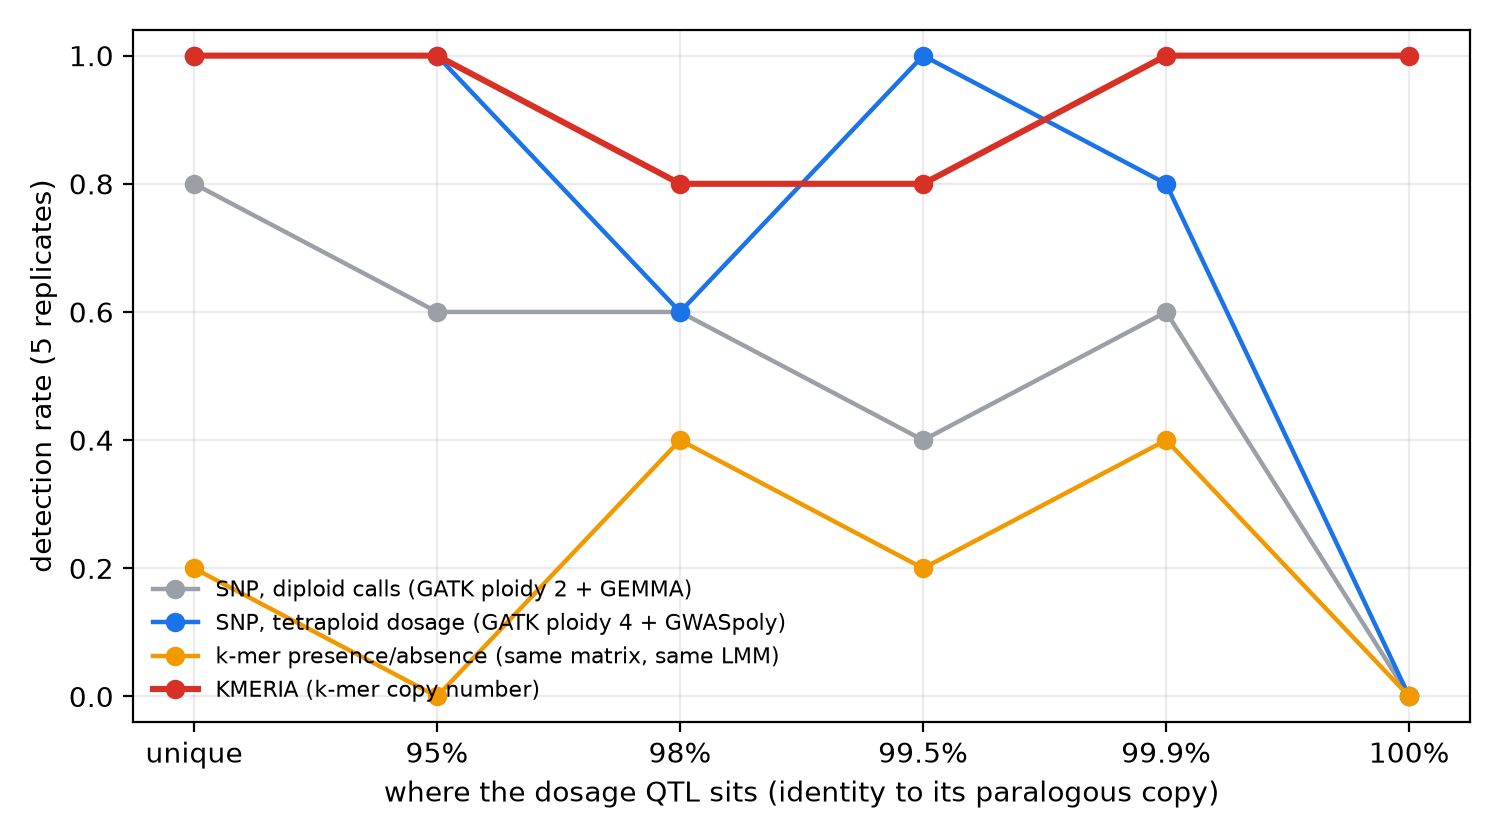
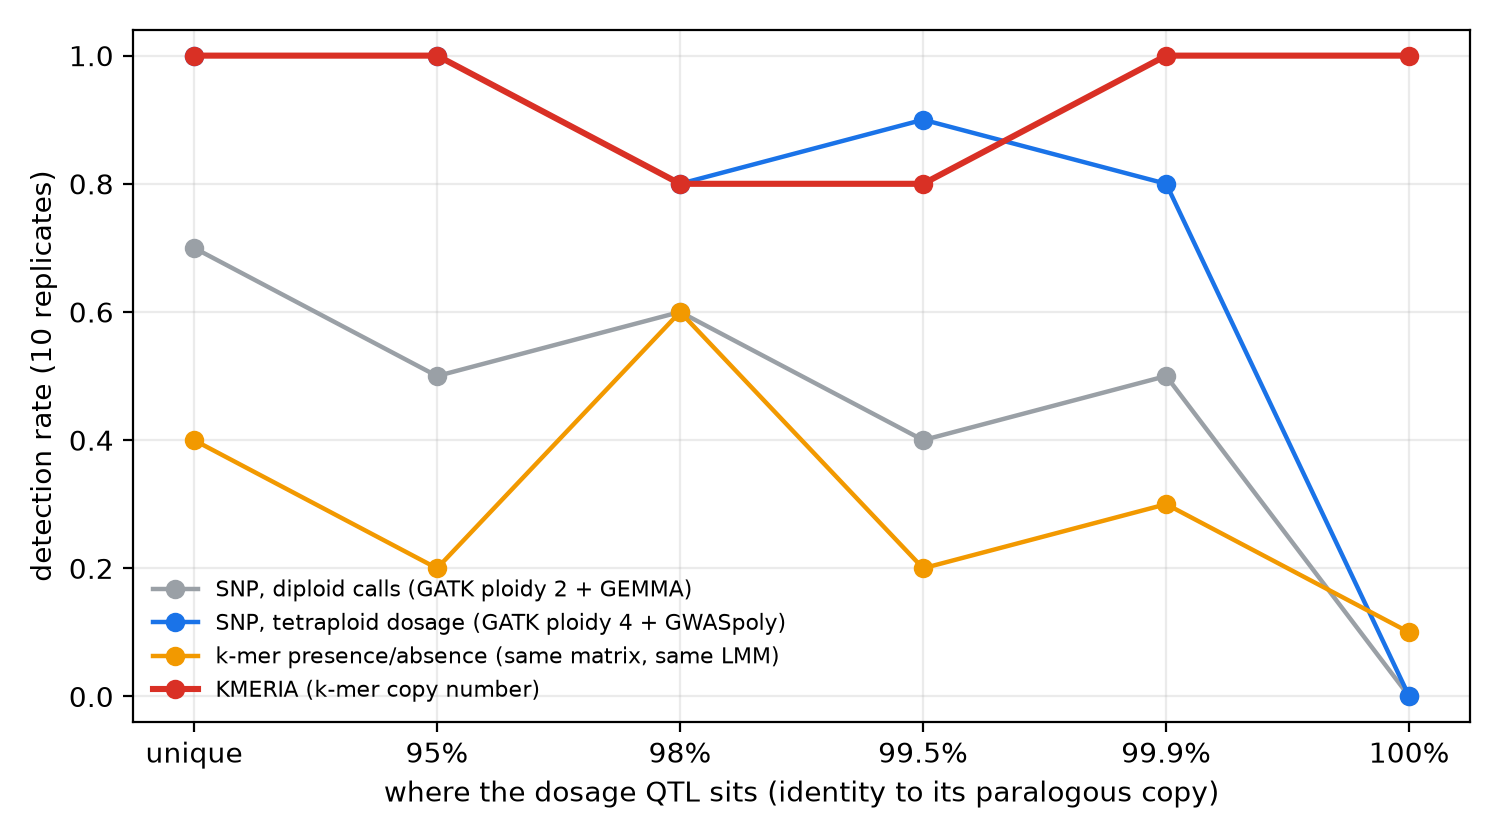
Extend to 10 replicates: updated summary, figures and scorecard
Claude-Session: https://claude.ai/code/session_0118DfELS2Pe4E5szKwBYVLx

diff --git a/README.md b/README.md
@@ -9,7 +9,7 @@ Four routes are run on the same reads and the same phenotypes: diploid SNP calls
 [`PREREGISTRATION.md`](PREREGISTRATION.md) before any replicate ran; `git log -- PREREGISTRATION.md` shows they
 were not edited afterwards (one dated amendment, made after the n = 20 smoke test and before the full runs).
 
-> Simulated data only: 400 autotetraploid individuals, 2.5 Mb genome, 60× short reads, 5 replicates.
+> Simulated data only: 400 autotetraploid individuals, 2.5 Mb genome, 60× short reads, 10 replicates.
 > The numbers here show *mechanisms*, not field-ready power estimates.
 
 ![power vs identity](figures/fig1_power_vs_identity.png)
@@ -23,27 +23,28 @@ far more often than either of them.
 **2. Empirical deviation, part 1.** The prediction holds in direction but not in size. Pooled over the five dosage QTLs
 that a linear reference can still resolve (unique → 99.9 %), the detection rates are:
 
-| encoding | detected (25 trait × replicate) |
+| encoding | detected (50 trait × replicate) |
 |---|---|
 | KMERIA (k-mer copy number) | **92 %** |
-| GWASpoly (GATK ploidy 4 dosage) | **88 %** |
-| SNP, diploid calls | 60 % |
-| k-mer presence/absence | 24 % |
+| GWASpoly (GATK ploidy 4 dosage) | **90 %** |
+| SNP, diploid calls | 54 % |
+| k-mer presence/absence | 34 % |
 
-Presence/absence k-mers lose most of the signal, as predicted. Diploid calls do better than our 35–50 % forecast
-(see the scorecard).
+Presence/absence k-mers lose most of the signal, as predicted. Both lossy encodings do better than our forecast,
+though (see the scorecard).
 
 **3. Empirical deviation, part 2: the patch works, then hits a wall.** The obvious fix inside the alignment
-paradigm is to call genotypes with ploidy 4 and run GWASpoly. It works much better than expected. GATK genotypes at
-the causal site still correlated with true dosage at r = 0.84–0.99 up to **99.9 %** identity, because a 2×150 bp
-read pair spanning ~700 bp almost always covers at least one distinguishing base.
+paradigm is to call genotypes with ploidy 4 and run GWASpoly. It works much better than expected. In 8 of 10
+replicates GATK still genotyped the causal site at **99.9 %** identity, with r = 0.84–0.98 against true dosage. A
+2×150 bp read pair spans ~700 bp, so it almost always covers at least one distinguishing base. GWASpoly missed the
+99.9 % QTL in exactly the 2 replicates where GATK did not call the site.
 
-The wall is the **100 %-identical duplicate**. Reads from the two copies get MAPQ 0, HaplotypeCaller ignores them, and
-the causal SNP was **not called in any of 5 replicates at either ploidy**. Every SNP-based route is blind there (0/5),
-and so is presence/absence (0/5). KMERIA found it **5/5** (median p = 4.4e-9; threshold 5.6e-7). The causal
-alt allele exists on only one copy, so its k-mers are unique in the genome even though the reference coordinates
-around them are not. The SNP panels of [the Manhattan plot](figures/fig4_manhattan_P100_seed1.png) show an empty
-gap at the duplicated segment.
+The wall is the **100 %-identical duplicate**. Reads from the two copies get MAPQ 0, HaplotypeCaller ignores them,
+and the causal SNP was **not called in any of 10 replicates at either ploidy**. Every SNP-based route is blind there
+(0/10), and presence/absence is nearly so (1/10). KMERIA found it **10/10** (median p = 2.9e-9; threshold 5.6e-7).
+The causal alt allele exists on only one copy, so its k-mers are unique in the genome even though the reference
+coordinates around them are not. The SNP panels of [the Manhattan plot](figures/fig4_manhattan_P100_seed1.png)
+show an empty gap at the duplicated segment.
 
 **4. Digesting the deviation.** In this simulation the difference is not "KMERIA has more power everywhere."
 Where the reference can still place reads, GWASpoly is as good as KMERIA. What changes the result is *where the
@@ -51,46 +52,48 @@ genotype comes from*. SNP routes need a read to be uniquely placed before a geno
 matrix does not. That advantage is concentrated in exactly the regions (recent segmental duplications, collapsed
 paralogs) that a linear reference cannot resolve.
 
-The boundary control behaves as expected. For a **dominant** QTL (CTRL), every method finds it 5/5, and
-presence/absence gives the strongest signal (median −log10 p = 12.8 vs 10.0 for KMERIA).
+The boundary control shows the reverse. For a **dominant** QTL (CTRL, founder frequency 0.1), presence/absence is
+the only encoding that found it in 10/10 replicates, with the strongest signal (median −log10 p = 12.2). Diploid
+calls found it in 9/10, and both additive dosage methods in 8/10 (median 9.0 for KMERIA, 8.4 for GWASpoly). When
+1 and 3 copies have the same effect, an additive dosage model is the wrong model, and it shows.
 
 ## Prediction scorecard
 
-| # | preregistered prediction | observed (5 replicates) | verdict |
+| # | preregistered prediction | observed (10 replicates) | verdict |
 |---|---|---|---|
-| 1 | At U, snp_diploid ≈ 35–50 % and kmer_pa ≈ 5–10 %, dosage methods ≈ 95–98 % | snp_diploid 80 %, kmer_pa 20 %, gwaspoly 100 %, kmeria 100 % | **partly**: direction holds; diploid much better than forecast. The forecast ignored that the LMM absorbs the 20 % polygenic background, which raises the effective signal-to-noise ratio. |
-| 2 | gwaspoly ≈ kmeria at U/P95, then loses power at P98 and P995 with ghost hits; kmeria flat | gwaspoly 100/100/60/100 % at U/P95/P98/P995, no ghosts; kmeria 100/100/80/80 % | **failed** (already anticipated by Amendment 1). The P98 dip hits both methods in the same replicates (seeds 3, 4: p just above threshold for both), so it is replicate noise, not mismapping. |
-| 3 | CTRL: all detect; kmer_pa / snp_diploid at least as strong | all 5/5; median −log10 p 12.8 (P/A), 12.2 (diploid), 10.0 (gwaspoly, kmeria) | **holds** |
-| 4 | GATK ploidy 4 is the most expensive step; kmeria cheaper end to end | HaplotypeCaller ploidy 4 = 57 min; GWASpoly route 73 min vs KMERIA route 20 min | **holds** |
-| A1 | gwaspoly loses power at P999 and largely fails at P100; kmeria detects both | P999: gwaspoly 80 % (fails only in seed 1, where GATK did not call the site), kmeria 100 %. P100: gwaspoly 0 %, kmeria 100 % | **P100 holds; P999 mostly failed** |
+| 1 | At U, snp_diploid ≈ 35–50 % and kmer_pa ≈ 5–10 %, dosage methods ≈ 95–98 % | snp_diploid 70 %, kmer_pa 40 %, gwaspoly 100 %, kmeria 100 % | **partly**. The direction holds, but both lossy encodings beat the forecast. The forecast ignored that the LMM absorbs the 20 % polygenic background, which raises the effective signal-to-noise ratio. |
+| 2 | gwaspoly ≈ kmeria at U/P95, then loses power at P98 and P995 with ghost hits; kmeria flat | gwaspoly 100/100/80/90 % at U/P95/P98/P995, no ghosts; kmeria 100/100/80/80 % | **mostly failed** (already anticipated by Amendment 1). Most misses at P98/P995 by either method are within 10× of the threshold, which is power variance. One is a real mapping failure: at P995 in seed 9, GATK genotyped only 47 % of individuals (r = 0.69), and GWASpoly missed it (p = 2e-4). |
+| 3 | CTRL: all detect; kmer_pa / snp_diploid at least as strong | kmer_pa 10/10, snp_diploid 9/10, gwaspoly 8/10, kmeria 8/10; median −log10 p 12.2, 11.2, 8.4, 9.0 | **second half holds, first half partly**: the dosage methods miss 2/10 (seeds 8 and 10) |
+| 4 | GATK ploidy 4 is the most expensive step; kmeria cheaper end to end | HaplotypeCaller ploidy 4 = 55 min; GWASpoly route 72 min vs KMERIA route 20 min | **holds** |
+| A1 | gwaspoly loses power at P999 and largely fails at P100; kmeria detects both | P999: gwaspoly 80 % (misses = the 2 replicates where GATK did not call the site), kmeria 100 %. P100: gwaspoly 0 %, kmeria 100 % | **P100 holds; P999 mostly failed** |
 
 ## What KMERIA costs here
 
 Reported because a fair comparison has to show these too (all in [`results/summary.tsv`](results/summary.tsv)):
 
-- **More false windows.** KMERIA averages 0.4 significant off-target 100 kb windows per trait per replicate. Both
-  SNP routes average 0.03. The 0.05/(M/31) threshold from the paper treats every 31 overlapping k-mers as one test,
-  which is lenient when long haplotype blocks make millions of k-mers redundant.
-- **Ghost signal.** At P100, 1 of 5 replicates also had a significant peak within 50 kb of the identical copy
-  (seed 1, ~0.1 Mb; see the Manhattan plot). At P98, 2 of 5 replicates did.
-- **Most hits are not in the reference.** 73 % of significant true-window KMERIA k-mers at P100 do not occur in the
+- **More false windows.** KMERIA averages 0.4 significant off-target 100 kb windows per trait per replicate. The
+  SNP routes average 0.01–0.03. The 0.05/(M/31) threshold from the paper treats every 31 overlapping k-mers as one
+  test, which is lenient when long haplotype blocks make millions of k-mers redundant.
+- **Ghost signal.** Some replicates also had a significant peak within 50 kb of the paralogous copy: 1/10 at P100
+  (seed 1, ~0.1 Mb; see the Manhattan plot), 2/10 at P98 and 1/10 at P95.
+- **Most hits are not in the reference.** 76 % of significant true-window KMERIA k-mers at P100 do not occur in the
   linear reference (they carry the alt allele). Here they are placed with a perfect pangenome (all founder
   haplotypes). On real data, placing them is the hard part.
 - **A tooling pitfall.** `kmeria filter --output-format txt` writes each k-mer string **reversed** (the 2-bit
   decoder emits the lowest bits first). The official compressed path used by the KMERIA wrapper is unaffected and is
   what the KMERIA route here uses. If you parse the text output yourself, reverse the strings before mapping them.
 
-## Runtime (mean of 5 replicates, n = 400, 64-core VM, 56 parallel jobs)
+## Runtime (mean of 10 replicates, n = 400, 64-core VM, 56 parallel jobs)
 
 ![runtime](figures/fig3_runtime.png)
 
 | route | minutes |
 |---|---|
-| bwa-mem + GATK ploidy 2 + ploidy 4 + GEMMA + GWASpoly | 130 |
-| GWASpoly only (bwa + GATK ploidy 4 + GWASpoly) | 73 |
+| bwa-mem + GATK ploidy 2 + ploidy 4 + GEMMA + GWASpoly | 128 |
+| GWASpoly only (bwa + GATK ploidy 4 + GWASpoly) | 72 |
 | KMERIA (count → kctm → filter → m2b → kinship + association) | 20 |
 
-That is about 3.7× here. The ~430× figure in the paper comes from real potato data against single-threaded
+That is about 3.6× here. The ~430× figure in the paper comes from real potato data against single-threaded
 GATK and is not comparable.
 
 ## Design in one paragraph
@@ -114,10 +117,10 @@ Reads are wgsim 2×150 bp, 400 bp inserts, 60× monoploid. Scoring:
 ## Reproduce
 
 ```bash
-setup/install_envs.sh                       # micromamba envs: GATK, bwa, GEMMA, R + GWASpoly, KMERIA deps
-pipelines/run_all.sh runs/main 1 5 400 56   # n = 20 check run, then seeds 1-5 (~2.7 h each on 64 cores)
-python eval/aggregate.py runs/main . 1      # -> results/*.tsv, figures/*.png
-python eval/test_place.py                   # self-test of k-mer placement
+setup/install_envs.sh                        # micromamba envs: GATK, bwa, GEMMA, R + GWASpoly, KMERIA deps
+pipelines/run_all.sh runs/main 1 10 400 56   # n = 20 check run, then seeds 1-10 (~2.6 h each on 64 cores)
+python eval/aggregate.py runs/main . 1       # -> results/*.tsv, figures/*.png
+python eval/test_place.py                    # self-test of k-mer placement
 ```
 
 | path | what |
@@ -132,5 +135,5 @@ python eval/test_place.py                   # self-test of k-mer placement
 - Substitution-only, colinear simulation: no indels, structural variants or presence/absence variation. These would
   be the cases where k-mers are expected to gain further, and they are not tested here.
 - k-mers are placed with a perfect pangenome, which real studies do not have.
-- Five replicates. A 5/5 result has a 95 % lower confidence bound of about 48 %.
+- Ten replicates. A 10/10 result has a 95 % lower confidence bound of about 69 %.
 - One sample size, one effect size, one k (31).
